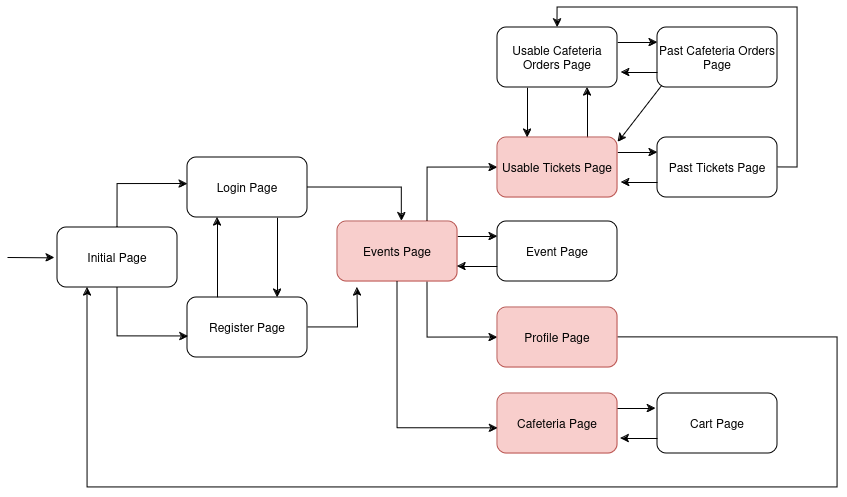
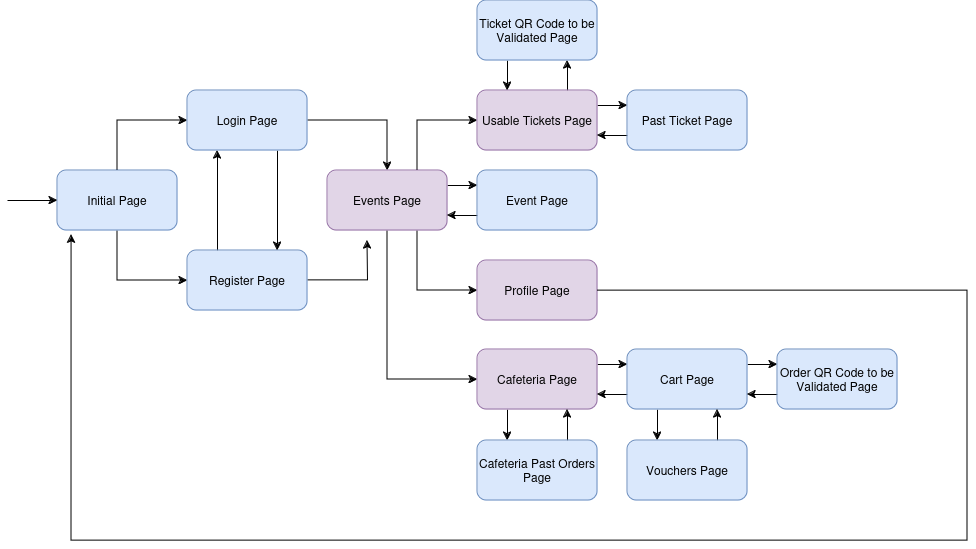
report begining

diff --git a/readme.md b/readme.md
@@ -9,16 +9,60 @@
 - [ ] Screenshot e tutorial como usar
 
 ## Architecture
- TODO
+A solid architecture is essential in mobile app development to make it less prone to errors, ensuring flexibility, scalability and maintainability. Well structured components promote modularity, simplyfing app development.
+
+To achieve that, the architecture used in the development of this app follows principles suggested in the Google Guide to App Architecture.
+
+Our app is mostly divided into the following components:
+### Screen
+What the user sees amd interacts with on their device. Contains all the visual interface definition and structure and components such as buttons, text fields, etc.
+
+### View Model
+The view model acts as a middleman between the UI and the data. Contains the business logic required to transform raw data into a appropriate format to be presented in the UI.
+By acting as a middleman, it provides a **separation of concerns** which inscreases app modularity.
+
+
+### Repositories
+Repositories provide a easy way for accessing data. They contain methods for fetching, updating and deleting data. Their service helps centralizing data access and serves as a mediator between the view models' business logic and the data own of storage.
+
+### Data Sources
+#### Network
+#### Local
 
 ## Data Schemas
 ### Server Database
+#### ☕ Cafeteria Item 
+Cafeteria Items are stored in the database with a string ID, which is the primary key, the item name, the price (stored as integer because the price is stored in the database as cents of euro and converted for euros everytime it is shown to the user) and a image url to represent the item.
 
-### Ticket
-  
-### Order
+| Name      | Type    |
+|-----------|---------|
+| **ID***   | String  |
+| Name      | String  |
+| Price     | Integer |
+| Image Url | String  |
 
-### Voucher
+#### 📋 Order 
+
+#### 🏷 Voucher 
+
+#### 🎭 Event 
+
+#### 🎟 Ticket 
+
+#### 👥 User 
+
+----------------------
+### Navigation Map
+When a user opens the app for the first time, they are directed to the "Initial Page," featuring two primary options: Log In or Sign Up. Once logged in, regardless of whether the app is closed or not, the default landing page becomes the "Events Page."
+
+Pages highlighted in pink within the navigation map represent sections accessible via the bottom navigation bar. These sections offer easy access and, since the user is logged in, can be reached with just a single click.
+
+<div align="center">
+ 
+![navigation-map.png](images-report%2Fnavigation-map.png)
+###### Figure 1 - TikTek Navigation Map
+</div>
+
 
 ## Features
 Pomos prints ou??
@@ -35,17 +79,6 @@ Pomos prints ou??
 - [ ] Insert Cafeteria Items in a Cart
 - [ ] Validate event tickets
 
-
-## Navigation Map
-When a user opens the app for the first time, they are directed to the "Initial Page," featuring two primary options: Log In or Sign Up. Once logged in, regardless of whether the app is closed or not, the default landing page becomes the "Events Page."
-
-Pages highlighted in pink within the navigation map represent sections accessible via the bottom navigation bar. These sections offer easy access and, since the user is logged in, can be reached with just a single click.
-
-<div align="center">
- 
-![navigation-map.png](images-report%2Fnavigation-map.png)
-###### Figure 1 - TikTek Navigation Map
-</div>
 
 ----------------------
 
